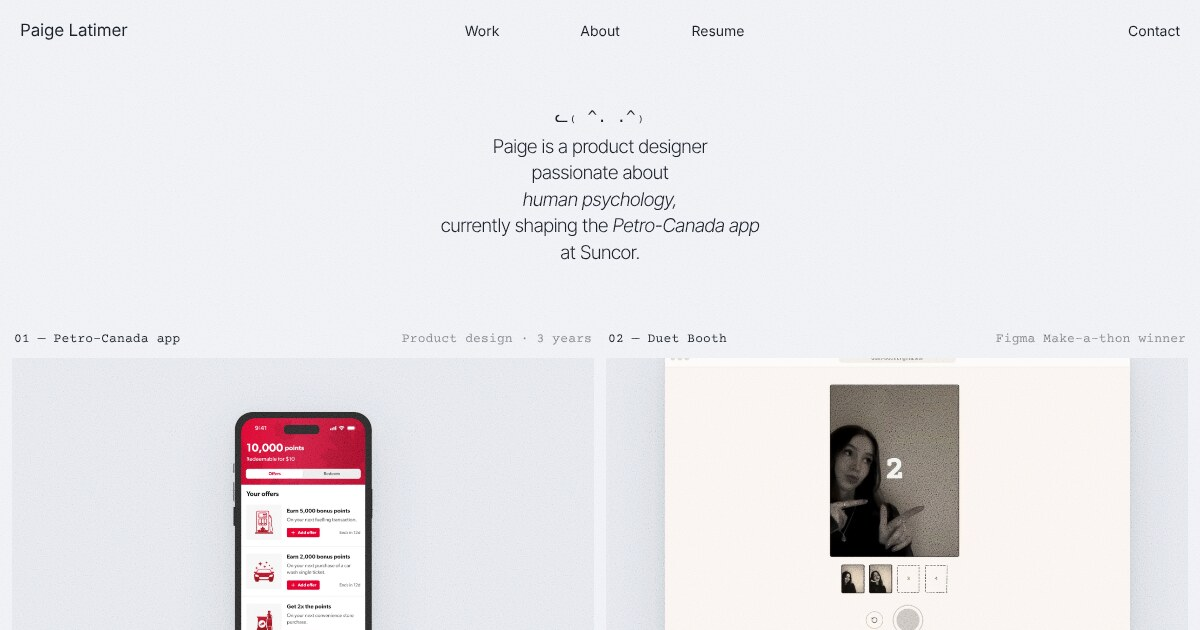
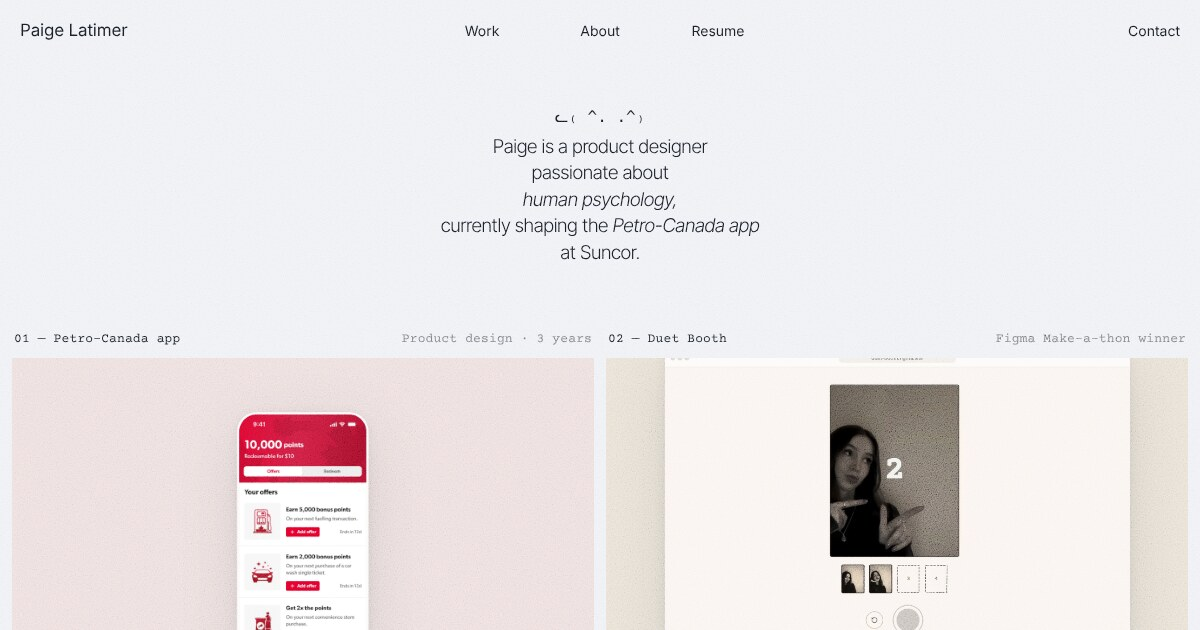
Homepage tiles: minimal phone frame and quiet colours
The Petro-Canada screen now sits in the same minimal frame as the Duet
Booth browser (thin off-white border, hairline edge, no hardware), with
the camera island painted out. Tiles get quiet colours from each
project: a dusty rose and a warm oat.

Claude-Session: https://claude.ai/code/session_01LVFAFj7EPf4VzMPLLNaaoo

Changed region(s): [[0.185, 0.6333, 0.3083, 1.0]]

diff --git a/css/redesign.css b/css/redesign.css
@@ -190,7 +190,7 @@ body.redesign::after {
     flex: 1 1 auto;
     min-height: 0;
     overflow: hidden;
-    background: #e3e6ec;
+    background: var(--tile-bg, #e3e6ec);
 }
 
 .rd-work__item.rd-work__item--glow img.rd-work__subject {
@@ -210,14 +210,16 @@ body.redesign::after {
     transform: translateX(-50%) translateY(-14px);
 }
 
-/* Petro-Canada: the phone, sized by height */
+/* Petro-Canada: the phone, sized by height, on a dusty rose (Petro red, nearly all the colour taken out) */
 .rd-work__item--petro {
+    --tile-bg: #ecdedd;
     --subject-height: 104%;
     --subject-bottom: -24%;
 }
 
-/* Duet Booth: the browser window, sized by width */
+/* Duet Booth: the browser window, sized by width, on a warm oat a shade deeper than the booth's cream */
 .rd-work__item--duet {
+    --tile-bg: #e8e0d4;
     --subject-width: 80%;
     --subject-bottom: -12%;
 }
